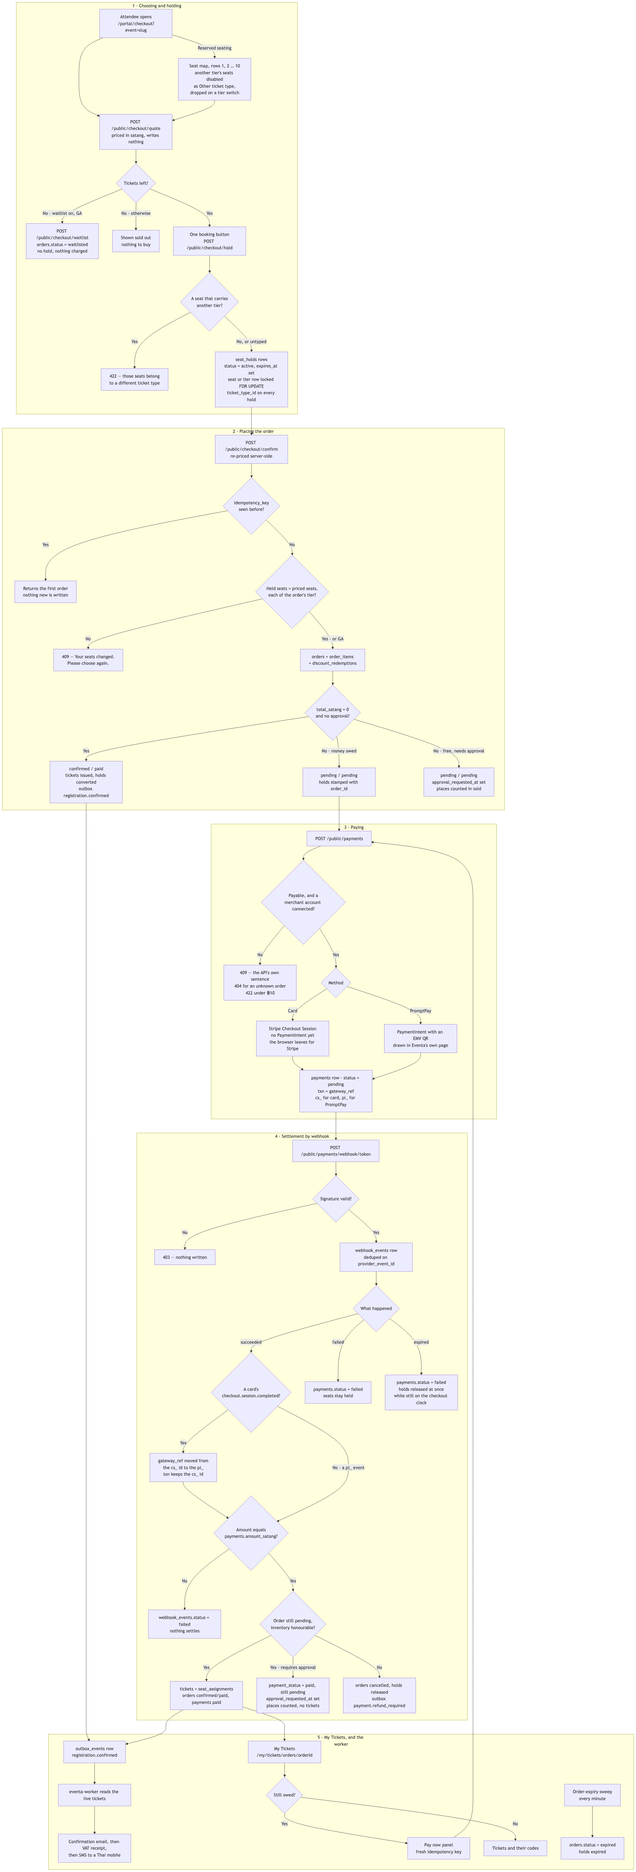
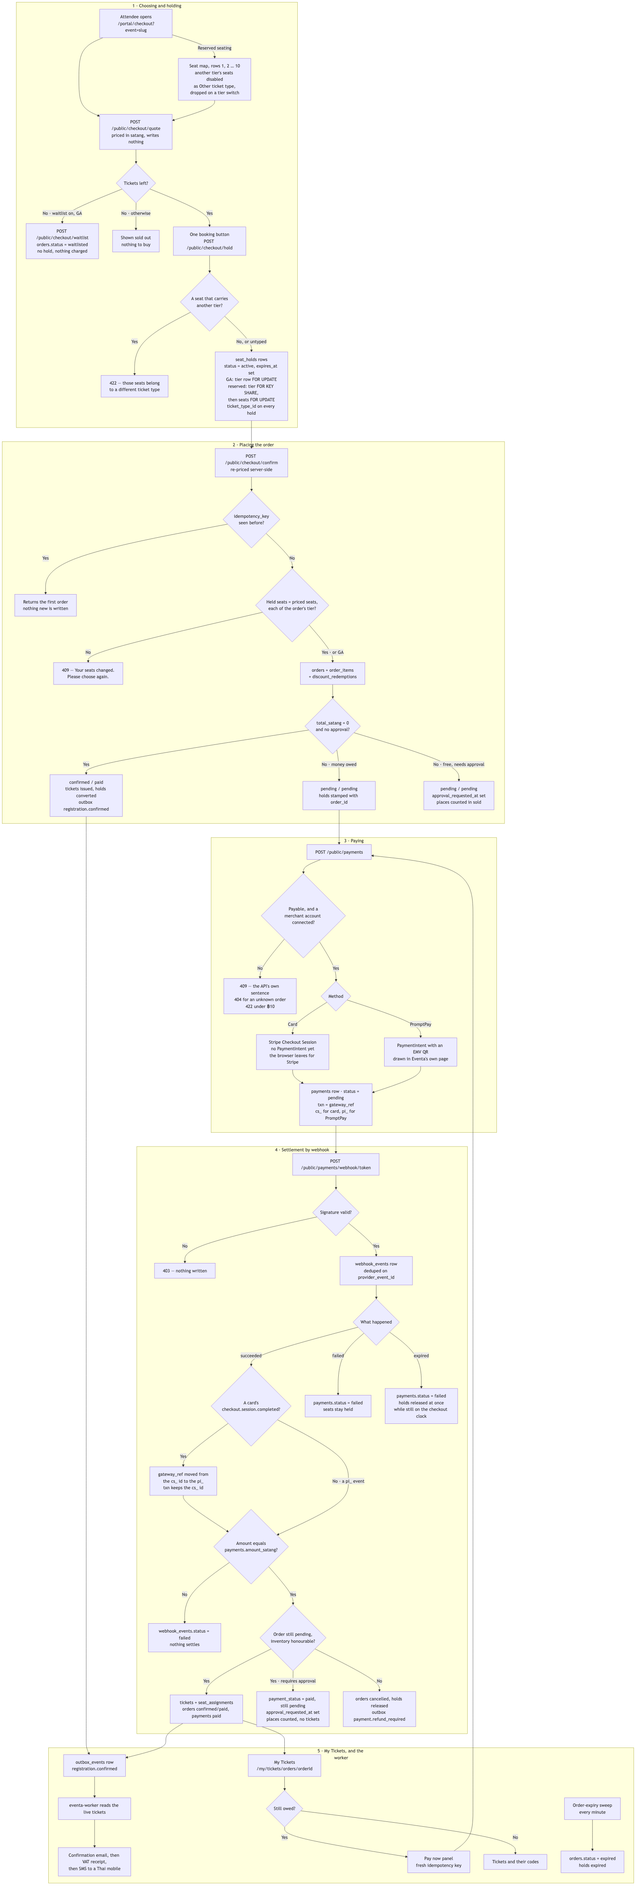
docs(flowcharts): say how seat holds and the publish refusal really behave (US-EVT-05, US-DISC-04)
Flowchart 02: a reserved hold takes its tier FOR KEY SHARE before locking
the seats FOR UPDATE; the image is re-rendered. Flowchart 13: a new tier on
a seat-typed event starts at 0 whatever total was sent, the seating
sentences follow "Cannot publish yet", a legacy map gets only the row
sentence, and the wizard checks only the row rule locally.

diff --git a/04-architecture/flowcharts/13-create-and-publish-an-event.md b/04-architecture/flowcharts/13-create-and-publish-an-event.md
@@ -8,8 +8,8 @@ How an organizer turns an idea into a public page an attendee can register on. I
 
 1. **Starting a draft.** The wizard at `/admin/event-form` opens blank and makes no calls at all until something is saved — on the API this is not one submit but a create followed by a long run of patches. `POST /events` needs a start and the start is asked for on step 2, so Next on Basics sends nothing and step 2's Next stays disabled until a title and a start date are filled; leaving step 2 is the create. That first save posts to `/events` (permission `evCreate`) with only a name, a type from the `event_type` enum, a start instant and an optional description — nothing else the first two steps hold, so the venue, end, online flag and cover typed there are first written by a later `PATCH` (on a straight run, step 4's) — and inserts an `events` row with `status = 'draft'`, `bucket = 'active'`, `visibility = 'private'` and `published_at` still null. The slug is derived from the name (latin `a-z0-9` and hyphens, at most 80 characters), falls back to `event` when that leaves fewer than three characters (a Thai-only title, for instance), and is tried as `-2`, `-3`… until it is free, because `uq_events_org_slug` makes it unique per workspace rather than globally; `organizer_name` falls back to the workspace's own name and `created_by` records who did it. The description is rich text the organizer authors in Quill and an anonymous reader later loads, so it is sanitised on the way **in** and capped at 10,000 characters of markup. The new id goes straight into the URL — from then on a refresh or a closed tab cannot strand a draft nobody can find. The cover image is a separate two-step upload (`POST /events/cover/upload-url`, then `PUT` straight to storage, then `POST /events/cover`); it writes to no table, is staged per **organization** rather than per event because step 1 runs before a draft exists to key it to, and only the confirmed URL is saved, in `events.cover_image`. The Basics step's highlights are a `PUT /events/:id/highlights` that replaces `event_highlights` as a whole — at most 12 — so what the organizer sees is exactly what the page renders. That call goes out only with the wizard's plain step save — Next on Basics or Date & location once the draft exists, or the header's Save on those steps or on Review — never with the create, seating, tickets or publish calls; so on a straight first run through a new event the highlights typed on Basics are never sent, unless the organizer goes back and saves one of those steps. FAQs have the same shape on the API — `PUT /events/:id/faqs` (`evCreate`) replaces `event_faqs` whole, at most 30 — but that endpoint is **API-only: no screen calls it**. The wizard has no FAQ field and no other console screen authors FAQs, so `event_faqs` stays empty unless something calls the API directly, and every template simply leaves the FAQ section out when there are none.
 2. **When and where.** Step 2's fields reach `events` through `PATCH /events/:id` — on an existing draft when step 2 is left, on a new one only with step 4's save, because leaving step 2 was the create. `start_at` and `end_at` are `timestamptz` — stored UTC, typed and displayed in Asia/Bangkok, with `events.timezone` defaulting to `'Asia/Bangkok'`. An end before or equal to the start is refused. An in-person event fills `venue_name` and `venue_address` — the wizard has no City box and re-sends whatever `city` is already stored, blank for a new event; an online one sets `is_online = true` with an `online_note`, and the public page then never publishes a physical location even if one is stored. It does publish `online_note` itself: the wizard labels that box **Meeting link** with a hint that it is emailed after registration, yet `GET /public/events/:slug` returns it and every template prints it in place of "Join link sent after you register". Step 3 is the room. General admission is a headcount: `PUT /events/:eventId/seating/general` sets `seating_mode = 'ga'` and writes the number into `events.capacity`. Reserved seating is a grid: `PUT /events/:eventId/seating/reserved` writes one `seat_maps` row per event (`uq_seat_maps_event`) carrying `layout` as `{ rows, seatsPerRow }` and `total_seats`, plus one `seats` row per position with `status = 'available'` — the `seat_status` enum is `available`, `held`, `reserved`, `sold`, `blocked`. Rows are numbered, not lettered: `seats.row_label` is `"1"` to `"N"`, and the wizard's preview labels them the same way. The same request splits the map between the event's ticket types by **whole rows**: `rowTicketTypes` carries one entry per row (index 0 is row `"1"`), each a live tier of this event or `null`, and the save writes that tier into `seats.ticket_type_id` on every seat of the row. A tier from anywhere else is a 422 ("Row {n}'s ticket type isn't one of this event's ticket types."), and so is a list whose length is not the row count; leaving the list out keeps each surviving row's type and gives new rows none. It is one transaction, locking the seat map, then the event's live `ticket_types`, then the map's `seats`. A row that has any seat booked (a `seat_assignments` row with `released_at` null) or held (an `active`, unexpired `seat_holds` row) keeps its type: a save that would change it is a 409, "Row {n} has booked or held seats, so its ticket type can't change.", read through a port the registration side implements. Once any seat on the map carries a tier the event is **seat-typed**, and in the same transaction Ticketing — through a port that takes the transaction — sets every live tier's `total` to the number of seats carrying it, `0` for a tier with no rows, and re-derives its `status` as it does whenever `total` changes; it never writes a `total` below `sold`, refusing the whole save with a 409 instead ("{Type} has sold {sold} tickets, more than the {n} seats its rows now hold."). `GET …/seating`, and the save's own response, return `rows` (`rowLabel`, `ticketTypeId`, `seats`, sorted numerically) and `unassignedRows`. The Seating step draws this as a **Ticket types by row** list — Row 1 to Row N, each a select of the event's ticket types plus "No ticket type" — and colours the preview by type, with a legend of each type's name and seat count and unassigned rows in a neutral colour. Tickets is the next step, so on a first run there is nothing to choose yet and the step says "Add your ticket types in the Tickets step, then come back here to give each row a type." A map laid out before rows carried types, with every seat's `ticket_type_id` null, is not seat-typed: its tiers keep their typed totals and checkout sells any of its seats under any tier, until a save gives its rows types. Switching a reserved event back to general admission drops the map. Either way an **online** event is refused outright with a 422 ("Online events have no seating — …"), and on an event that is no longer a draft a layout change that would remove a seat already `sold` is refused too. The wizard hides the seating choices for an online event, but its Next still sends `PUT …/seating/general`: on a first run that succeeds, because `is_online` has not been saved yet, and once it has, the refusal shows as the wizard's error banner while it moves on to Tickets. The wizard has no headcount box on this step either: the number it sends is the **Capacity** box on step 4's card, and a blank box is sent as `0`. So a first run, which leaves Seating before that box is reached, stores `events.capacity = 0` until step 4's `PATCH` carries a number; left blank there, the nought stays — that `PATCH` omits a blank capacity, and `UpdateEventDto.capacity` must be positive — and a reload shows `0`. The summary rail still renders `—` for a blank or zero capacity, because "as many as the tiers allow" and "nobody may come" are different facts, but the stored value says nought.
-3. **Ticket tiers.** Step 4, and the standalone Tickets screen at `/admin/tickets`, both write `ticket_types` through `POST /events/:eventId/tickets` and `PATCH /events/:eventId/tickets/:ticketId`. `price_satang` is integer satang and VAT-inclusive; prices are set in whole baht, so a stray satang is refused, and the browser converts what was typed with `Math.round(baht × 100)` rather than sending a float. A free tier sets `is_free` and is held to a zero price by `ck_ticket_types_free_price`. `total` is the allocation, and the ticketing policy reads `0` as unlimited — never derived `soldout`, no per-order ceiling — but nothing downstream agrees: `ck_ticket_types_sold` keeps `sold` between 0 and `total`, the seat-hold engine counts free places as `total - sold - held`, and the public page counts `total - sold` remaining, so a tier left at `0` — which is what a blank Quantity box in the wizard creates — is shown sold out and cannot actually be sold. `min_per_order` and `max_per_order` sit inside the platform's eight-seat booking cap and inside the allocation itself. What the tier is **not** given is its own availability: `status` is always derived server-side by the ticketing policy — `soldout` when the allocation is exhausted, `scheduled` while `sales_start_at` is still ahead, otherwise `onsale` — so the only value a human owns is `paused`, which survives until Resume and is refused a resume once `sales_end_at` has passed. Two rules protect sales already made: once `sold > 0` the price and the paid/free setting are frozen (a new tier is the answer), and `total` can never be set below `sold`. Raising `total` is the one edit with a side effect — the new places are offered to anyone waiting (see [Waitlist](04-waitlist.md)), and a failure there is reported as the offers being cut short rather than undoing the organizer's capacity change. Deleting a tier that never sold erases the row; one with sales is soft-deleted via `deleted_at`, so it leaves the list and stops selling while every issued ticket still resolves to it. The last remaining tier cannot go, and neither can one somebody is checking out with — an active `seat_holds` row refuses the delete with a sentence saying to pause it and try again. On a **seat-typed** event (step 2) the quantity belongs to the seat map, not the organizer. The ticket list and detail responses carry `quantityFromSeats: true` (`false` on every other event), so the wizard's Tickets step and the Tickets screen show the seat count read-only, marked "Set by the seat map"; a `PATCH` with any other `total` is a 409 ("This event's ticket quantities come from its seat map. Give rows to a ticket type instead."), while sending the same number, or changing any other field, goes through. A tier created on a seat-typed event starts at `total = 0`, and so shows sold out, until Seating gives it rows; and a tier that still owns rows can be neither deleted nor retired — a 409, "{Type} still has seat rows. Give them to another ticket type first." The same wizard step also carries the event's two registration rules, on a **Capacity & registration** card under the tier table — the only place in the console that sets them; the standalone Tickets screen does not. Saving the step sends both in the `PATCH /events/:id` (`evCreate`) that goes out before any tier is written, into `events.requires_approval` and `events.waitlist_enabled`, each `false` until switched on. **Require approval** holds every registration placed from then on for the organizer's decision (see [Approval](05-approval.md)). It is copied onto each `orders` row as `orders.requires_approval` at placement, so flipping the switch later never changes the deal a buyer was shown; and while it is on, a raised `total` no longer offers its new places to the line by itself — the organizer offers them by hand, because handing out a place on such an event is itself the decision. **Enable waitlist** only means something on general admission. When step 3 chose reserved seating the switch is greyed out, with a hint that a freed seat cannot be offered without somebody choosing it, and the wizard sends `false` whatever it was left at. The API does not refuse the combination at write time — `PATCH /events/:id` accepts `waitlistEnabled = true` on a reserved event — but the rule holds where it matters: checkout refuses to join a reserved event's line ("The waitlist is for general-admission tickets; this event seats people by seat."), and a raised allocation never offers places to one (see [Waitlist](04-waitlist.md)).
-4. **Review and publish.** `POST /events/:id/publish` needs the stronger `evPublish` permission, and refuses a draft that is not ready. The readiness gate asks for four things — a title, a description, a venue or an online link (checked as a `venue_name` or `is_online = true`), and at least one ticket type — and answers a 422 naming the ones still missing ("Cannot publish yet — please add …"). A reserved event must also have a ticket type on every seat row and at least one row for every live ticket type, and those gaps join the same refusal list in their own sentences: "Give every seat row a ticket type before publishing." and "{Type} has no seat rows. Give it a row or remove it." A draft whose map was laid out before rows carried types counts as having untyped rows, so it cannot publish until they get types; an event that is already published is never re-checked. The wizard's checklist applies the same rules locally — with "Every seat row has a ticket type" as its line for the seating ones — so the button and the server agree before it is pressed, and counts only tiers the API has actually stored. A start date already in the past is refused with a 422 unless the request carries `confirmPastStart` — but the wizard always sends `confirmPastStart: true`, without asking, so from the console a past start publishes with no prompt and that refusal is **API-only**. A `version` that no longer matches is a 409 asking for a reload, which is what stops two people publishing different drafts of the same event. On success the row moves to `status = 'upcoming'` with `bucket = 'active'` and `published_at` stamped, and the request's optional `visibility` and `landing_template_id` are applied in the same write. Worth knowing: `planned` and `live` exist in the `event_status` enum and are accepted as live by the public-page, discover and checkout queries, but nothing ever writes them — publishing always lands on `upcoming`. Once that write has committed, the service enqueues an `outbox_events` row with `aggregate_type = 'event'` and `routing_key = 'events.published'` — through `OutboxPort.enqueue` on its own connection, not `enqueueIn` inside the update's transaction, so the state change and the message about it do **not** commit together: a failure between the two leaves a published event with no `events.published` row, and the organizer an error for a publish that stood. Unpublishing, `POST /events/:id/unpublish` (`evPublish`), is the exact reverse and loses nothing: `status` back to `draft`, `visibility` back to `private`, `published_at` cleared, every tier, seat and highlight preserved — but it is **API-only: no screen calls it**; the wizard's route action keeps an `unpublish` branch that no control submits. Deleting and duplicating happen in the row menu on `/admin/events`, not here (see [Categories, duplicating and deleting events](25-manage-events.md) steps 5 and 6). `DELETE /events/:id` (`evPublish`) hard-deletes only a draft with nothing sold; a published event, or a draft with registrations, is refused with a 409 whose sentence tells the organizer to cancel it instead — but **the console has no Cancel control**. The row menu shows that sentence word for word and offers nothing more, and `POST /events/:id/cancel` is **API-only: no screen calls it** (see [Refund and cancellation](07-refund-and-cancellation.md) step 1).
+3. **Ticket tiers.** Step 4, and the standalone Tickets screen at `/admin/tickets`, both write `ticket_types` through `POST /events/:eventId/tickets` and `PATCH /events/:eventId/tickets/:ticketId`. `price_satang` is integer satang and VAT-inclusive; prices are set in whole baht, so a stray satang is refused, and the browser converts what was typed with `Math.round(baht × 100)` rather than sending a float. A free tier sets `is_free` and is held to a zero price by `ck_ticket_types_free_price`. `total` is the allocation, and the ticketing policy reads `0` as unlimited — never derived `soldout`, no per-order ceiling — but nothing downstream agrees: `ck_ticket_types_sold` keeps `sold` between 0 and `total`, the seat-hold engine counts free places as `total - sold - held`, and the public page counts `total - sold` remaining, so a tier left at `0` — which is what a blank Quantity box in the wizard creates — is shown sold out and cannot actually be sold. `min_per_order` and `max_per_order` sit inside the platform's eight-seat booking cap and inside the allocation itself. What the tier is **not** given is its own availability: `status` is always derived server-side by the ticketing policy — `soldout` when the allocation is exhausted, `scheduled` while `sales_start_at` is still ahead, otherwise `onsale` — so the only value a human owns is `paused`, which survives until Resume and is refused a resume once `sales_end_at` has passed. Two rules protect sales already made: once `sold > 0` the price and the paid/free setting are frozen (a new tier is the answer), and `total` can never be set below `sold`. Raising `total` is the one edit with a side effect — the new places are offered to anyone waiting (see [Waitlist](04-waitlist.md)), and a failure there is reported as the offers being cut short rather than undoing the organizer's capacity change. Deleting a tier that never sold erases the row; one with sales is soft-deleted via `deleted_at`, so it leaves the list and stops selling while every issued ticket still resolves to it. The last remaining tier cannot go, and neither can one somebody is checking out with — an active `seat_holds` row refuses the delete with a sentence saying to pause it and try again. On a **seat-typed** event (step 2) the quantity belongs to the seat map, not the organizer. The ticket list and detail responses carry `quantityFromSeats: true` (`false` on every other event), so the wizard's Tickets step and the Tickets screen show the seat count read-only, marked "Set by the seat map"; a `PATCH` with any other `total` is a 409 ("This event's ticket quantities come from its seat map. Give rows to a ticket type instead."), while sending the same number, or changing any other field, goes through. A tier created on a seat-typed event starts at `total = 0` until Seating gives it rows, whatever `total` the request sent; and a tier that still owns rows can be neither deleted nor retired — a 409, "{Type} still has seat rows. Give them to another ticket type first." The same wizard step also carries the event's two registration rules, on a **Capacity & registration** card under the tier table — the only place in the console that sets them; the standalone Tickets screen does not. Saving the step sends both in the `PATCH /events/:id` (`evCreate`) that goes out before any tier is written, into `events.requires_approval` and `events.waitlist_enabled`, each `false` until switched on. **Require approval** holds every registration placed from then on for the organizer's decision (see [Approval](05-approval.md)). It is copied onto each `orders` row as `orders.requires_approval` at placement, so flipping the switch later never changes the deal a buyer was shown; and while it is on, a raised `total` no longer offers its new places to the line by itself — the organizer offers them by hand, because handing out a place on such an event is itself the decision. **Enable waitlist** only means something on general admission. When step 3 chose reserved seating the switch is greyed out, with a hint that a freed seat cannot be offered without somebody choosing it, and the wizard sends `false` whatever it was left at. The API does not refuse the combination at write time — `PATCH /events/:id` accepts `waitlistEnabled = true` on a reserved event — but the rule holds where it matters: checkout refuses to join a reserved event's line ("The waitlist is for general-admission tickets; this event seats people by seat."), and a raised allocation never offers places to one (see [Waitlist](04-waitlist.md)).
+4. **Review and publish.** `POST /events/:id/publish` needs the stronger `evPublish` permission, and refuses a draft that is not ready. The readiness gate asks for four things — a title, a description, a venue or an online link (checked as a `venue_name` or `is_online = true`), and at least one ticket type — and answers a 422 naming the ones still missing ("Cannot publish yet — please add …"). A reserved event must also have a ticket type on every seat row and at least one row for every live ticket type, and those gaps join the same 422 as sentences of their own, after any "Cannot publish yet — please add …": "Give every seat row a ticket type before publishing." and "{Type} has no seat rows. Give it a row or remove it." (the error's details list `seating` beside the other requirement keys). A draft whose map was laid out before rows carried types counts as having untyped rows — that one sentence, not one per ticket type as well — so it cannot publish until they get types; an event that is already published is never re-checked. The wizard's checklist applies the same rules locally, so the button and the server agree before it is pressed, and counts only tiers the API has actually stored; on a reserved event it adds "Every seat row has a ticket type" and keeps Publish disabled while a row has none. A ticket type with no rows is not checked locally: that refusal reaches the organizer as the API's sentence in the page's error banner. A start date already in the past is refused with a 422 unless the request carries `confirmPastStart` — but the wizard always sends `confirmPastStart: true`, without asking, so from the console a past start publishes with no prompt and that refusal is **API-only**. A `version` that no longer matches is a 409 asking for a reload, which is what stops two people publishing different drafts of the same event. On success the row moves to `status = 'upcoming'` with `bucket = 'active'` and `published_at` stamped, and the request's optional `visibility` and `landing_template_id` are applied in the same write. Worth knowing: `planned` and `live` exist in the `event_status` enum and are accepted as live by the public-page, discover and checkout queries, but nothing ever writes them — publishing always lands on `upcoming`. Once that write has committed, the service enqueues an `outbox_events` row with `aggregate_type = 'event'` and `routing_key = 'events.published'` — through `OutboxPort.enqueue` on its own connection, not `enqueueIn` inside the update's transaction, so the state change and the message about it do **not** commit together: a failure between the two leaves a published event with no `events.published` row, and the organizer an error for a publish that stood. Unpublishing, `POST /events/:id/unpublish` (`evPublish`), is the exact reverse and loses nothing: `status` back to `draft`, `visibility` back to `private`, `published_at` cleared, every tier, seat and highlight preserved — but it is **API-only: no screen calls it**; the wizard's route action keeps an `unpublish` branch that no control submits. Deleting and duplicating happen in the row menu on `/admin/events`, not here (see [Categories, duplicating and deleting events](25-manage-events.md) steps 5 and 6). `DELETE /events/:id` (`evPublish`) hard-deletes only a draft with nothing sold; a published event, or a draft with registrations, is refused with a 409 whose sentence tells the organizer to cancel it instead — but **the console has no Cancel control**. The row menu shows that sentence word for word and offers nothing more, and `POST /events/:id/cancel` is **API-only: no screen calls it** (see [Refund and cancellation](07-refund-and-cancellation.md) step 1).
 5. **The page, and the worker.** The public page lives at `/e/<slug>` and is served by `GET /public/events/:slug`, which returns a row only when `visibility = 'public'`, `status` is one of `planned`/`upcoming`/`live`, `published_at` is not null and `deleted_at` is null — anything else is a plain "This event page isn't available." `unlisted` is in the `visibility` enum but is not treated as reachable by that query, so today only `public` has a page. The payload is assembled read-only from `event_highlights`, `sessions`, `speakers`, `ticket_types` and `event_faqs`, with the accent colour falling back to `#2563EB` when none is stored or the stored one is not `#rrggbb`, and the template falling back to `aurora`. Registration is reported closed once `start_at` has passed and "not open yet" while every tier sits outside its sales window — a tier whose stored `status` still reads `onsale` is refused at checkout outside its sales window, because registration's own eligibility rules check the window rather than trusting that badge, which is deliberate (see [Checkout and payment](02-checkout-and-payment.md)); an event with `requires_approval` set confirms nothing at checkout either (see [Approval](05-approval.md)). The **Landing pages** screen offers the four designs — `aurora` (Classic), `noir` (Spotlight), `minimal` (Minimal), `atlas` (Vibrant), seeded into the global `landing_templates` lookup — and "Use template" is a plain `PATCH /events/:id` setting `landing_template_id` on the event chosen in the screen's switcher (with no event yet it is only a link to the wizard), deliberately so: it used to be settable only while publishing, which meant wanting a new look required taking a live event down. Everything else about the page is **API-only: no screen calls it**. `PATCH /events/:id/page` (`evPublish`) can move the slug (409 when it is taken in the workspace), the accent colour and the agenda/speakers headings, and `POST /events/page/preview` (`evCreate`) renders a page from values that have never been saved — it writes nothing and is flagged `noIndex` so a preview can never leak into search. No console screen lets an organizer change the address, the accent colour or those headings, and the wizard's own update leaves `accentColor` out, so a value set through the API survives a save. The wizard's **Preview** button — in its header on every step, and again on the review step — does not use that endpoint either. On an event that is not yet served publicly it opens `/landing/<template>` in a new tab with the typed title, venue, online flag and highlights packed into the query string, and the page is built in the browser from those alone, with no agenda, speakers, tickets or FAQs: no API call, never indexed. Once the event is live and `public` it opens `/landing/<template>?event=<slug>` instead, which fetches the real public page and therefore shows what is saved, not what is on screen. Finally, the asynchronous part, which is the piece readers most often get wrong: **publishing sends no email.** The API only wrote the `outbox_events` row; the relay publishes it to RabbitMQ, and eventa-worker's `EventPublishedHandler` consumes `events.published`, validates the payload and writes it to the structured log, nothing more — delivering the team's "Event published" notification is deferred, because the message carries a slug, a name and who published it, and no recipient addresses at all.
 
 <details>

diff --git a/04-architecture/flowcharts/02-checkout-and-payment.md b/04-architecture/flowcharts/02-checkout-and-payment.md
@@ -6,7 +6,7 @@ How an attendee turns a chosen ticket into an admission they can show at the doo
 
 ![Checkout and payment](images/02-checkout-and-payment.png)
 
-1. **Choosing and holding.** The attendee lands on `/portal/checkout?event=<slug>`; `GET /public/checkout/:slug` resolves a published, public event and its `ticket_types`. Every change of quantity, seat or discount code re-posts to `/public/checkout/quote`, which writes nothing — the tier's `price_satang` times the quantity is the VAT-inclusive subtotal, the discount is whatever Discounts quotes for the code, the service fee is `floor(discounted × service_fee_rate)`, and VAT is restated out of the resulting total. Every figure is integer satang worked out by the API; the browser only formats it. There is no separate Book step: the one booking button — "Continue to pay ฿…" for a card, "Pay ฿…" for PromptPay, "Confirm registration" when nothing is owed — runs a single form action that calls `POST /public/checkout/hold`, then confirm (step 2), then, when money is owed, pay (step 3). The hold inserts `seat_holds` with `status = 'active'` and `expires_at = now + HOLD_TTL_SECONDS`: one row carrying `quantity` for general admission, one row per `seat_id` for reserved seating, where the seat rows are locked `FOR UPDATE` and re-checked before the insert, and the partial unique index `uq_seat_hold_active` (one `active` hold per seat) is the database's backstop against two buyers holding the same seat. On a reserved event the checkout view sends each seat with its `ticketTypeId`, and the seat map lists rows in number order (1, 2 … 10, never 1, 10, 2), disables every seat whose type is set and is not the tier chosen — styled, and named in the legend, as "Other ticket type" — and drops any picked seat of another type when the buyer switches tier. The API holds the same line rather than trusting the page: a seat that carries another tier is a 422 ("Those seats belong to a different ticket type. Please choose again.") at quote, hold and confirm alike, while a seat with no type — on a map laid out before rows carried types — still sells under whichever tier is chosen. A reserved seat's hold records the tier being bought in `seat_holds.ticket_type_id`, as a general-admission hold does. A booking is 1–8 seats (anything else is a 422), and a general-admission tier with too few left is refused with a 409 in words the buyer can act on ("Only 3 left — please reduce your quantity."). A sold-out tier offers the line instead — but only when the organizer switched the waitlist on and the event is general admission; otherwise it simply shows sold out. Joining is `POST /public/checkout/waitlist`, which writes an order with `status = 'waitlisted'` and its `order_items` line, holds nothing and charges nothing.
+1. **Choosing and holding.** The attendee lands on `/portal/checkout?event=<slug>`; `GET /public/checkout/:slug` resolves a published, public event and its `ticket_types`. Every change of quantity, seat or discount code re-posts to `/public/checkout/quote`, which writes nothing — the tier's `price_satang` times the quantity is the VAT-inclusive subtotal, the discount is whatever Discounts quotes for the code, the service fee is `floor(discounted × service_fee_rate)`, and VAT is restated out of the resulting total. Every figure is integer satang worked out by the API; the browser only formats it. There is no separate Book step: the one booking button — "Continue to pay ฿…" for a card, "Pay ฿…" for PromptPay, "Confirm registration" when nothing is owed — runs a single form action that calls `POST /public/checkout/hold`, then confirm (step 2), then, when money is owed, pay (step 3). The hold inserts `seat_holds` with `status = 'active'` and `expires_at = now + HOLD_TTL_SECONDS`: one row carrying `quantity` for general admission, one row per `seat_id` for reserved seating, where the tier row is taken `FOR KEY SHARE` first (tier before seats, the order the seat-map save and settlement lock in) and the seat rows are then locked `FOR UPDATE` and re-checked before the insert, and the partial unique index `uq_seat_hold_active` (one `active` hold per seat) is the database's backstop against two buyers holding the same seat. On a reserved event the checkout view sends each seat with its `ticketTypeId`, and the seat map lists rows in number order (1, 2 … 10, never 1, 10, 2), disables every seat whose type is set and is not the tier chosen — styled, and named in the legend, as "Other ticket type" — and drops any picked seat of another type when the buyer switches tier. The API holds the same line rather than trusting the page: a seat that carries another tier is a 422 ("Those seats belong to a different ticket type. Please choose again.") at quote, hold and confirm alike, while a seat with no type — on a map laid out before rows carried types — still sells under whichever tier is chosen. A reserved seat's hold records the tier being bought in `seat_holds.ticket_type_id`, as a general-admission hold does. A booking is 1–8 seats (anything else is a 422), and a general-admission tier with too few left is refused with a 409 in words the buyer can act on ("Only 3 left — please reduce your quantity."). A sold-out tier offers the line instead — but only when the organizer switched the waitlist on and the event is general admission; otherwise it simply shows sold out. Joining is `POST /public/checkout/waitlist`, which writes an order with `status = 'waitlisted'` and its `order_items` line, holds nothing and charges nothing.
 2. **Placing the order.** `POST /public/checkout/confirm` re-prices the selection server-side rather than trusting the request, then does everything in one transaction. An `orders` row already carrying this `idempotency_key` short-circuits the whole thing, so a confirm sent twice returns the first registration instead of placing a second; `uq_orders_org_idem` is the backstop for two that arrive at the same instant, where the loser's insert fails and its transaction rolls back rather than placing a duplicate. Otherwise the holds are re-read as still `active` and unexpired (a lapsed one is a 409, "Your seats were released while you were checking out. Please choose again.") and must cover exactly the seats that were priced, each one that carries a type being of the order's tier; anything else is a 409, "Your seats changed. Please choose again.", which is what stops a buyer holding a VIP seat and paying the Normal price for it. Then `attendees` is upserted, and `orders` is written with a random reference like `ORD-7K2M9QX4`, the satang columns `subtotal_satang` / `discount_amount_satang` / `vat_amount_satang` / `total_satang`, and `requires_approval` copied from the event as a snapshot so flipping the event's switch later cannot change the deal this buyer made. One `order_items` line is written, plus a `discount_redemptions` row when a code paid off. A free registration on an event that needs no decision is finished here: `status = 'confirmed'`, `payment_status = 'paid'`, `ticket_types.sold` raised under a `FOR UPDATE` lock, one `tickets` row per admission with its `qr_token`, `seat_assignments` bound to those tickets, the holds moved to `'converted'`, and the `registration.confirmed` outbox row written in the same transaction (step 5). A free registration on an event that requires approval is placed `pending` / `pending` with `approval_requested_at` set and its places counted in `ticket_types.sold` at once, waiting for the organizer. Anything owed is placed as `status = 'pending'`, `payment_status = 'pending'`, with its holds stamped with `order_id` and still running down — and deliberately **no `tickets` rows**, so nobody holds a QR for something they have not paid for. If confirming throws, the web action releases the holds (`DELETE /public/checkout/hold`, which frees only holds no order has taken over) rather than leaving seats locked away.
 3. **Paying.** `POST /public/payments` names an order and a method, never an amount: the charge is `orders.total_satang`, read server-side. It is refused with a 409 and a sentence written for the buyer when the order is already paid, has `status = 'expired'`, is no longer `pending`, costs nothing, or belongs to a workspace whose `payment_settings` row is not `connected` with a real account id — collecting into the platform's own account would take money the organizer could never reach. An unknown order id is a 404, and the adapter refuses with a 422 a total under ฿10 or one not in THB before any money moves. **Card** opens a Stripe Checkout Session and the browser leaves for Stripe's own page; this app hosts no card field anywhere. Checkout does not mint the session's PaymentIntent until the buyer actually pays, so at creation the only reference that exists is the session's own `cs_…` id, and that is what the `payments` row records as `gateway_ref` — the adapter would take a `pi_…` if the session already carried one, but normally it does not, and step 4 moves the row onto the intent once it exists. **PromptPay** stays in Eventa's page: Stripe returns an EMV payload, which the browser draws as a QR, and the deadline on it is Eventa's own (`PROMPTPAY_EXPIRY_SECONDS`, anchored to the intent's creation) because Stripe publishes none. That deadline only goes back to the browser as `expiresAt`: the page does not show it and nothing cancels the intent when it passes, so what actually ends the buyer's window is the seat hold's own `expires_at` and the expiry sweep in step 5. Either way a `payments` row is written with `method`, `amount_satang`, `status = 'pending'` (or `failed` if the provider refused the attempt on the spot), `txn` and `gateway_ref` both set to that provider reference (the session's `cs_…` for card, the intent's `pi_…` for PromptPay), and `gateway_account_id` stamped with the connected account — meant to make a later refund reverse on the same account, but nothing reads it back yet: a refund is issued with whatever secret key the workspace's active mode holds at that moment. `uq_payments_org_idem` makes a replayed request find its own attempt.
 4. **Settlement, which only the webhook decides.** Landing back on the return URL means the buyer finished at the provider, not that money moved. `POST /public/payments/webhook/:token` resolves the workspace from the token in the URL — a callback carries no session, and the signature cannot be checked until we know whose signing secret to check it against — verifies the signature over the raw bytes, and refuses anything unsigned. A `webhook_events` row deduplicated on `(provider, provider_event_id)` makes processing exactly-once across retries and replicas. A card payment settles on `checkout.session.completed`, and only once the session's `payment_status` is `paid`, since a completed session can still have money in flight; it finds the row by the `cs_…` id it was started under and first moves `gateway_ref` onto the `pi_…` the session has now created, because that is what a refund hands to Stripe — `txn` is not touched and keeps the session id. Stripe's own `payment_intent.succeeded` for the same charge matches no row until that move and finds one already `paid` after it, so it never settles a second time. On `succeeded` the reported amount is compared with `payments.amount_satang`, and a mismatch settles nothing and leaves `webhook_events.status = 'failed'` for a person to look at. Otherwise one transaction locks the `orders` row, raises `ticket_types.sold`, inserts the `tickets` and their `seat_assignments`, moves the holds to `'converted'`, sets `orders.status = 'confirmed'` with `payment_status = 'paid'` and `confirmed_at`, marks the `payments` row `paid` with `paid_at`, and writes the `registration.confirmed` outbox row — so "paid", "ticketed" and "told" cannot drift apart. If the order can no longer be honoured — it is no longer `pending`, typically because the expiry sweep closed it first (`order_closed`), or the tier was removed or sold out, or a seat went to someone else — the order is cancelled (with `payment_status = 'paid'`), its holds released, and a `payment.refund_required` outbox row queued instead: money wins over a mere hold, but never over an assigned seat. A second payment settling an already-confirmed order queues the same event with reason `duplicate_payment`. A `failed` callback marks the attempt `failed` and leaves the seats held so the buyer can retry or switch method; an `expired` one — Stripe reporting a PromptPay attempt lapsed (`payment_intent_payment_attempt_expired`), a cancelled intent, or a card Checkout Session that expired — also marks the attempt `failed` and releases the holds at once, but only while the order is still `pending`, unpaid and not awaiting a decision. On an event that requires approval (the order's own `requires_approval` snapshot) the money lands but no ticket is minted and no outbox row is written — the order stays `pending` with `payment_status = 'paid'` and `approval_requested_at` set, its places counted in `sold`; a reserved seat whose hold was lost while the buyer paid is refused with `seats_released` instead (see [Approval](05-approval.md)).
@@ -27,7 +27,7 @@ flowchart TD
     C -- "Yes" --> E["One booking button<br/>POST /public/checkout/hold"]
     E --> E1{"A seat that carries<br/>another tier?"}
     E1 -- "Yes" --> E2["422 — those seats belong<br/>to a different ticket type"]
-    E1 -- "No, or untyped" --> F["seat_holds rows<br/>status = active, expires_at set<br/>seat or tier row locked FOR UPDATE<br/>ticket_type_id on every hold"]
+    E1 -- "No, or untyped" --> F["seat_holds rows<br/>status = active, expires_at set<br/>GA: tier row FOR UPDATE<br/>reserved: tier FOR KEY SHARE,<br/>then seats FOR UPDATE<br/>ticket_type_id on every hold"]
   end
 
   subgraph PLACE["2 · Placing the order"]
